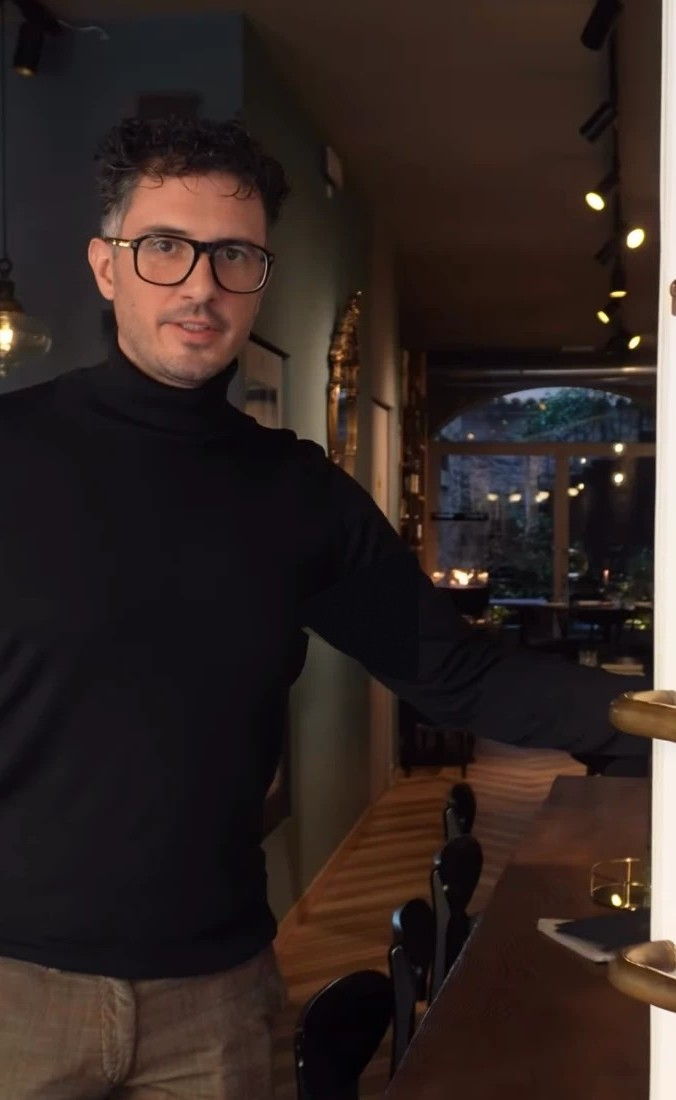
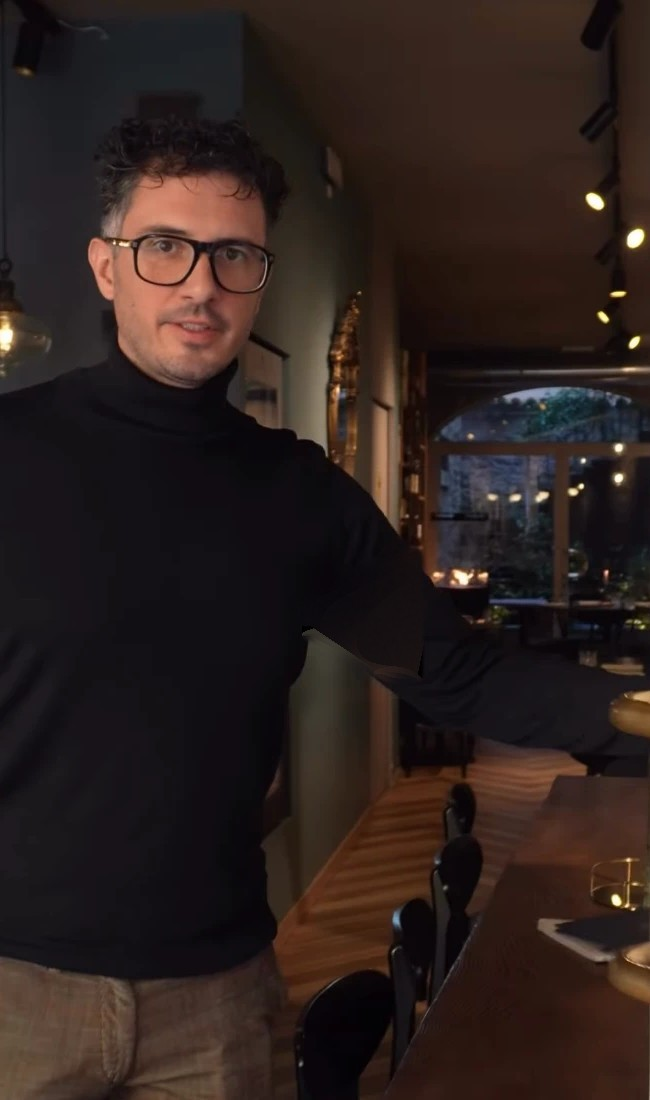
Foto di Stefano: maglione ripulito e leggera inclinazione
Claude-Session: https://claude.ai/code/session_01Wp8DKke875Qjtm6msF99w4

diff --git a/css/style.css b/css/style.css
@@ -492,3 +492,8 @@ p { margin: 0 0 1.1em; }
 .pullquote figcaption::before { content: ""; width: 34px; height: 1px; background: var(--bronze); }
 .green__img img { aspect-ratio: 1; object-fit: cover; }
 .story__portrait img { aspect-ratio: 4 / 5; object-position: 40% 20%; }
+
+/* Foto di Stefano leggermente inclinata */
+.story__portrait { transform: rotate(-3deg); transform-origin: center; box-shadow: 0 24px 50px -24px rgba(14,26,51,.45); }
+.story__portrait.reveal.is-in { transform: rotate(-3deg); }
+@media (max-width: 600px) { .story__portrait, .story__portrait.reveal.is-in { transform: rotate(-2deg); } }
